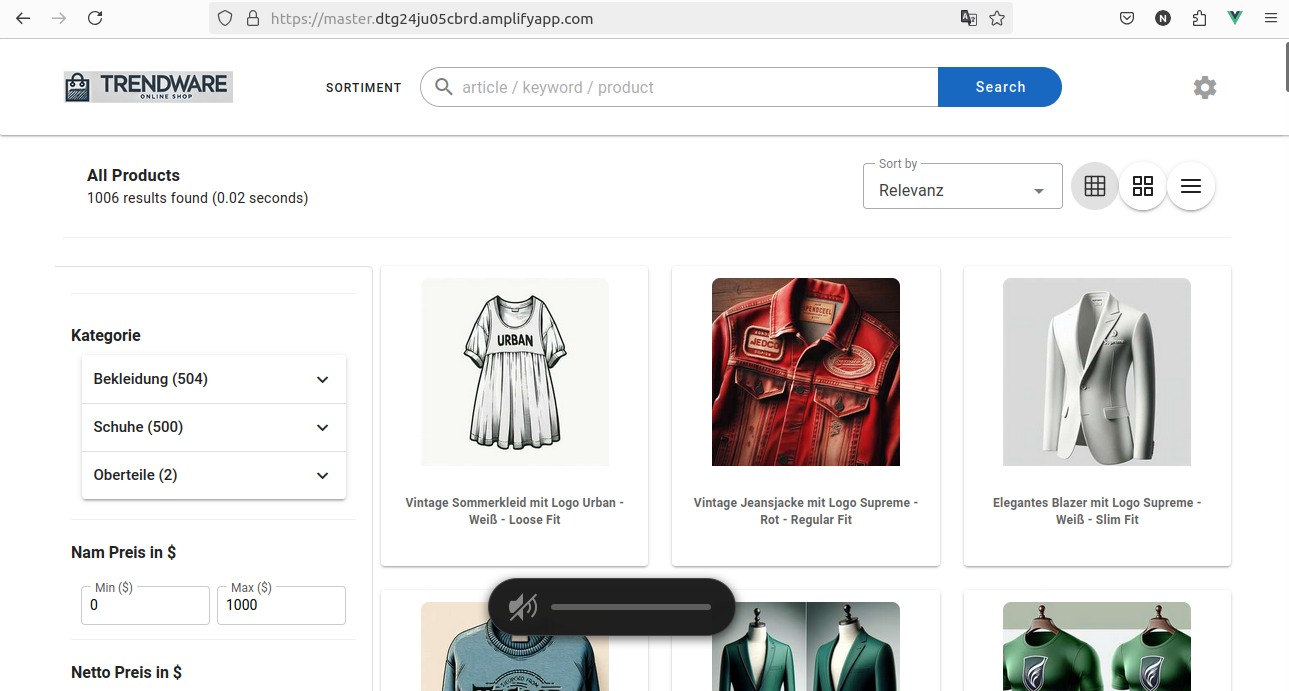
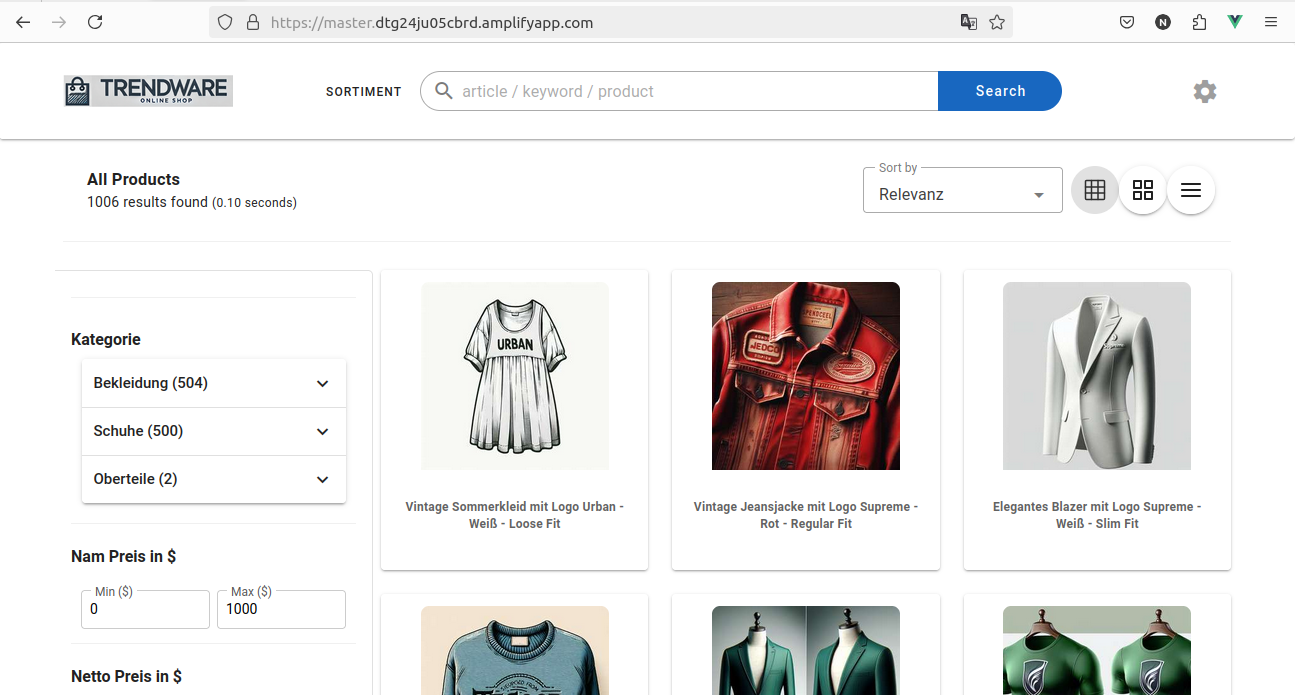
Qsc-1971 recent searches implementation

diff --git a/src/components/AppBar.vue b/src/components/AppBar.vue
@@ -55,25 +55,32 @@
           <div class="top-priority" v-if="suggests.length > 0">
             <ul>
               <li
-                v-for="(suggest, index) in suggests"
+                v-for="(suggest, index) in filteredItems"
                 :key="index"
                 :class="{ selected: index === selectedIndex }"
                 style="border-radius: 10px;"
               >
                 <v-list-item
                   class="list-item"
-                  @click="selectSuggestion(suggest.suggest)"
-                  @keydown.enter.prevent="selectSuggestion(suggest.suggest)"
+                  @click="selectSuggestion(suggest)"
+                  @keydown.enter.prevent="selectSuggestion(suggest)"
                   @mouseover="handleMouseOver(index)"
                   @mouseleave="handleMouseLeave"
                   tabindex="0"
                 >
-                  <v-icon
+                  <v-icon v-if="!isInRecentSearches(suggest)"
                     class="no-animation"
                     :class="{
                       'white-font': index === selectedIndex
                     }"
                     >mdi-magnify</v-icon
+                  >
+                  <v-icon v-else
+                    class="no-animation"
+                    :class="{
+                      'white-font': index === selectedIndex
+                    }"
+                    >mdi-history</v-icon
                   >
                   &nbsp; &nbsp;
                   <span
@@ -81,7 +88,7 @@
                       'white-font': index === selectedIndex,
                     }"
                   >
-                    {{ suggest.suggest }}
+                    {{ suggest }}
                   </span>
                 </v-list-item>
               </li>
@@ -149,6 +156,7 @@ export default {
     return {
       localSearchQuery: "",
       suggests: [],
+      recentSearches: [],
       config: config[0],
       isFixedAppBar: false,
       navFilter: false,
@@ -192,7 +200,19 @@ export default {
     ...mapState(['requestId','userId','sessionId','email','searchQuery','bottomSheet']),
     isEmailValid() {
       return ((this.rules.every(rule => rule(this.emailInput) === true)) && (this.email != this.emailInput));
-    }
+    },
+    filteredItems() {
+      const suggestValues = this.suggests.map(item => item.suggest);
+      const recent = this.recentSearches[this.config.id].filter(item => 
+        item && item.toLowerCase().startsWith(this.localSearchQuery.toLowerCase())
+      );      
+      // Combine recent suggestions with filtered items, ensuring no duplicates
+      const uniqueFilteredItems = [...new Set([...recent, ...suggestValues])];
+      if (uniqueFilteredItems.length > 10) {
+        uniqueFilteredItems.length = 10;  // Trim the array to 10 items
+      }
+      return uniqueFilteredItems;
+    },
   },
   async mounted() {
     window.addEventListener("mousemove", this.handleMouseMove);
@@ -208,6 +228,11 @@ export default {
         break; // Exit the loop once a match is found
       }
     }
+    this.recentSearches = JSON.parse(localStorage.getItem('recentsSearch') || '{}');
+    if(!this.recentSearches[this.config.id]){
+      this.recentSearches[this.config.id]=[]
+      localStorage.setItem('recentsSearch', JSON.stringify(this.recentSearches));
+    }
     this.fetchSuggestions();
   },
   beforeUnmount() {
@@ -220,6 +245,10 @@ export default {
     handleclearSession(){
       this.clearSession();
       this.$store.dispatch('initializeSession');
+    },
+    isInRecentSearches(item) {
+      const recentSearches = JSON.parse(localStorage.getItem('recentsSearch') || '{}');
+      return recentSearches[this.config.id].includes(item);
     },
     fetchSuggestions() {
       const suggestUrl = this.config.suggestionUrl;
@@ -259,6 +288,15 @@ export default {
         });
     },
     searchProducts() {
+      if(this.localSearchQuery.trim() != ''){
+        this.recentSearches[this.config.id].unshift(this.localSearchQuery.toLowerCase());
+        this.recentSearches[this.config.id]= [...new Set(this.recentSearches[this.config.id])];
+          // Ensure the length is max 10
+          if (this.recentSearches[this.config.id].length > 10) {
+            this.recentSearches[this.config.id].length = 10;  // Trim the array to 10 items
+          }
+        localStorage.setItem('recentsSearch', JSON.stringify(this.recentSearches));
+      }
       this.navFilter=false;
       this.stopBottomSheet();
       this.startFacetsLoading();
@@ -303,7 +341,6 @@ export default {
       }
       this.prevScrollPos = currentScrollPos;
     },
-
     handleWindowClick() {
       this.suggests = []; // Clear the suggests list
     },
@@ -355,6 +392,9 @@ $md: 959px;
 }
 .search-bar {
   width: 85%;
+}
+.mdi-magnify {
+  font-size: 25px !important;
 }
 .search-bar-dropdown {
   height: 40px;
